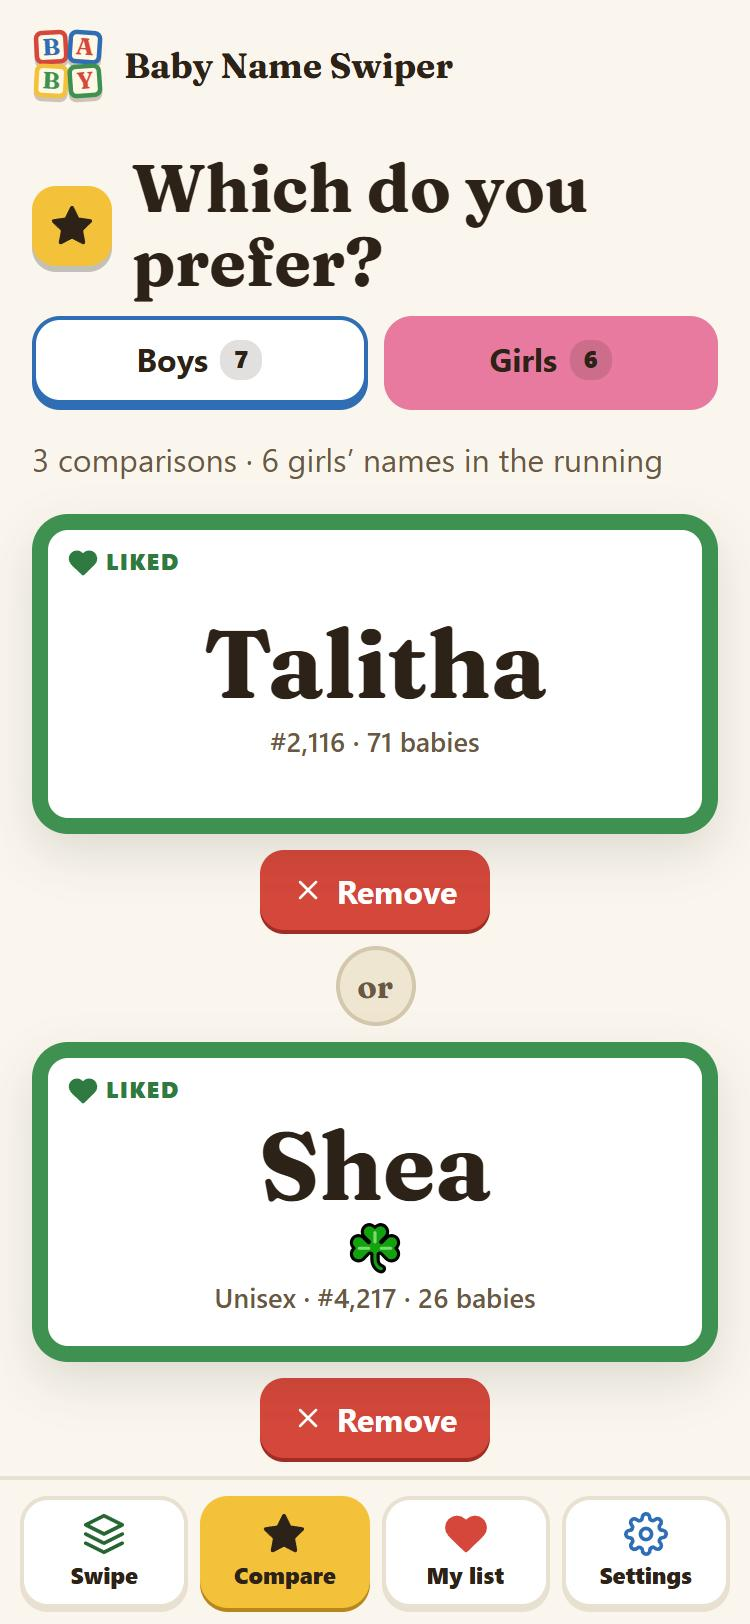
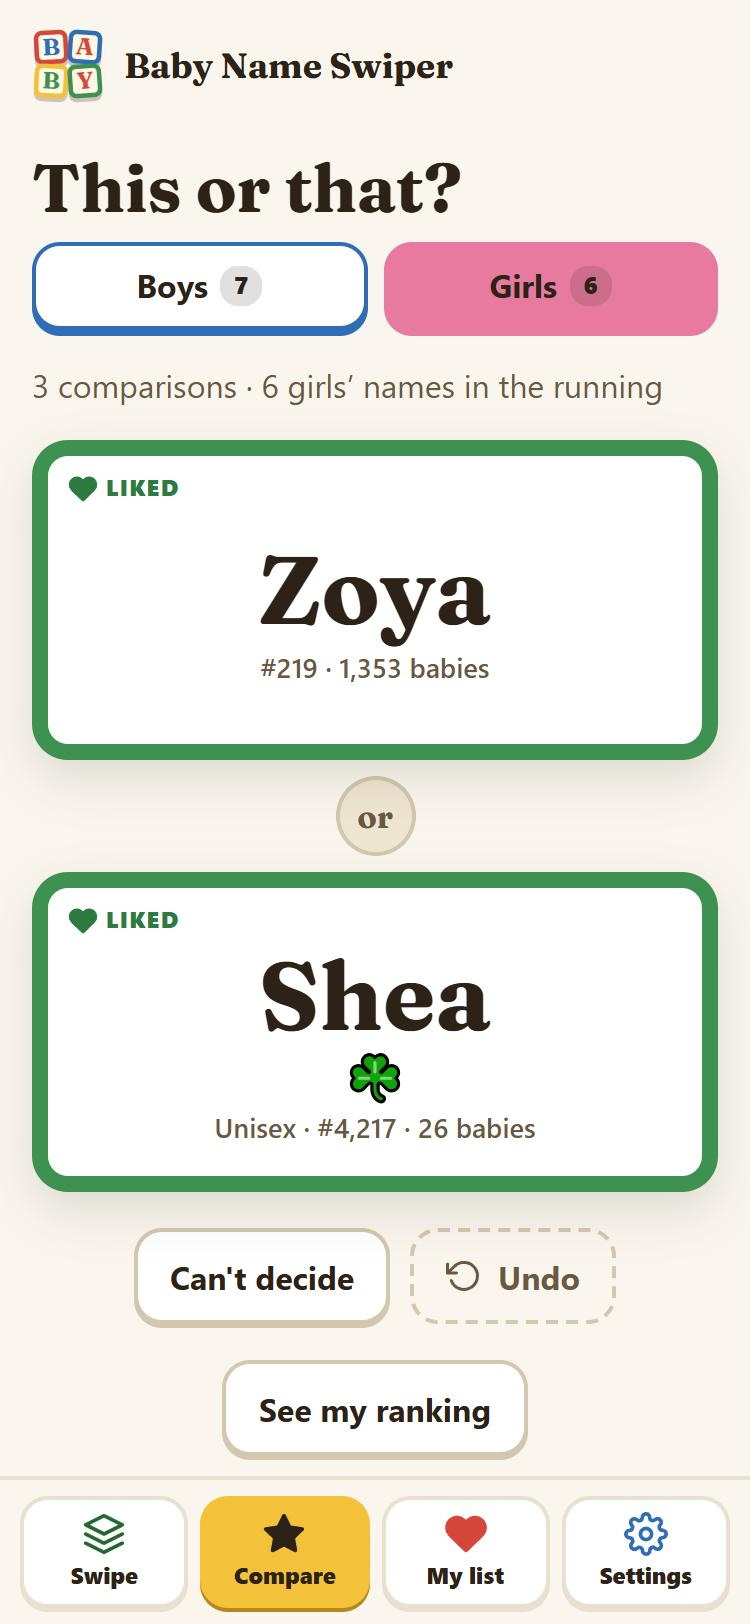
Compare screen: 'This or that?' title, remove moves to the list
The compare screen is now just the two names; elimination lives on My list,
including a quiet eliminate button on each Ranked row (affects that sex's
pool only). Refresh README screenshots.

Changed region(s): [[0.0307, 0.0924, 0.9813, 0.9236]]

diff --git a/js/app.js b/js/app.js
@@ -489,7 +489,7 @@ function rankedRows(pool) {
   return items;
 }
 
-function rankedRowEl({ n, alt, e, d, pos, pct }) {
+function rankedRowEl({ n, alt, e, d, pos, pct, pool }) {
   const li = document.createElement('li');
   li.className = 'ranked' + (pos <= 3 ? ' top' + pos : '');
   const badge = document.createElement('span');
@@ -514,7 +514,16 @@ function rankedRowEl({ n, alt, e, d, pos, pct }) {
   const score = document.createElement('span');
   score.className = 'score';
   score.textContent = fmt(Math.round(e.r));
-  li.append(badge, nm, score);
+  const rm = document.createElement('button');
+  rm.type = 'button';
+  rm.className = 'mini no';
+  rm.innerHTML = icon('x', 18);
+  rm.setAttribute('aria-label', `Eliminate ${n.name}`);
+  rm.addEventListener('click', () => {
+    state.decisions[pool][n.key] = 'no';       // only this sex's pool; a unisex name can still be wanted in the other
+    persist(); announce(`${n.name} eliminated`); renderList();
+  });
+  li.append(badge, nm, score, rm);
   return li;
 }
 
@@ -565,13 +574,7 @@ function renderRank(pair = null) {
     $('.pn', pick).style.setProperty('--len', String(Math.max(6, it.n.name.length)));
     $('.pi', pick).textContent = rank;
     pick.addEventListener('click', () => choose(side));
-    const rm = document.createElement('button');
-    rm.type = 'button';
-    rm.className = 'mini no remove';
-    rm.innerHTML = `${icon('x', 16)}<span>Remove</span>`;
-    rm.setAttribute('aria-label', `Remove ${it.n.name}`);
-    rm.addEventListener('click', () => removeFromRank(side));
-    opt.append(pick, rm);
+    opt.append(pick);
     stage.append(opt);
     if (side === 0) { const or = document.createElement('div'); or.className = 'or'; or.setAttribute('aria-hidden', 'true'); or.textContent = 'or'; stage.append(or); }
   });
@@ -620,16 +623,6 @@ function undoRank() {
   rankLast = u.last;
   persist(); announce('Undid last comparison');
   renderRank([u.w, u.l]);
-}
-
-// Removing a name from a pool only affects that sex (a unisex name can still be wanted in the other pool).
-function removeFromRank(side) {
-  if (!rankPair || rankBusy) return;
-  const it = rankPair[side];
-  state.decisions[rankPool][it.n.key] = 'no';
-  rankUndo = rankUndo.filter((u) => u.w.id !== it.id && u.l.id !== it.id);
-  persist(); announce(`${it.n.name} removed`);
-  renderRank();
 }
 
 /* ---------- settings ---------- */

diff --git a/css/styles.css b/css/styles.css
@@ -402,3 +402,7 @@ body { padding-bottom: calc(var(--tabbar-h) + env(safe-area-inset-bottom)); }
 .pool-seg span { min-height: 44px; }
 .cnt { margin-left: 6px; padding: 1px 7px; border-radius: 9px; background: color-mix(in srgb, currentColor 14%, transparent); font-size: .75rem; font-weight: 800; }
 .seg input:disabled + span { opacity: .5; border-style: dashed; box-shadow: none; cursor: not-allowed; }
+
+/* Ranked rows: a quiet eliminate button so the ranking stays the focus */
+.rows li.ranked .mini.no { background: color-mix(in srgb, var(--red) 12%, var(--surface)); color: var(--red); border-color: color-mix(in srgb, var(--red) 40%, transparent); box-shadow: none; }
+.rows li.ranked .mini.no:active { background: var(--red); color: var(--on-red); }

diff --git a/index.html b/index.html
@@ -109,7 +109,7 @@
 
   <!-- Ranking round -->
   <section id="screen-rank" class="screen" hidden aria-labelledby="rank-title">
-    <h1 id="rank-title"><span class="h-ic yellow" data-icon="star" data-size="22"></span>Which do you prefer?</h1>
+    <h1 id="rank-title">This or that?</h1>
     <div class="seg pool-seg" role="radiogroup" aria-label="Compare names for">
       <label><input type="radio" name="pool" value="boys"><span>Boys <b class="cnt" id="pool-n-boys"></b></span></label>
       <label><input type="radio" name="pool" value="girls"><span>Girls <b class="cnt" id="pool-n-girls"></b></span></label>
